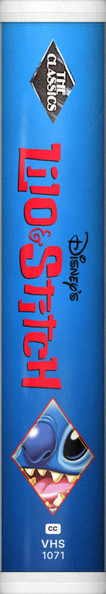
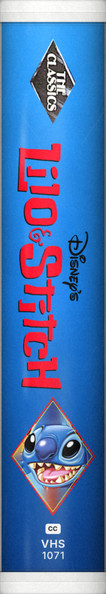
More of the face on Lilo & Stitch, The Jungle Book and Ratatouille
Claude-Session: https://claude.ai/code/session_01RnhGoJJhH4zFPKQhpQ9ghr

Changed region(s): [[0.1132, 0.6667, 0.8774, 0.8788]]

diff --git a/spinegen/tapes.py b/spinegen/tapes.py
@@ -1735,7 +1735,9 @@ def vlogo(id, color, length, path=None):
 # id -> (fx, fy, zoom): the point of the picture (fractions) put at the diamond's centre, and the scale
 # relative to filling the frame (under 1 shows more of the picture; any gap is filled with a blurred copy).
 FACE_FIT = {
-    'ratatouille-2007': (.42, .50, .72),
+    'ratatouille-2007': (.52, .44, .54),
+    'lilo-stitch-2002': (.46, .50, .54),
+    'the-jungle-book-1967': (.50, .52, .54),
     'chicken-little-2005': (.56, .58, .66),
     'lady-and-the-tramp-1955': (.62, .46, .70),
     'the-lion-king-1994': (.56, .42, .80),

diff --git a/CLAUDE.md b/CLAUDE.md
@@ -123,7 +123,7 @@ Ian's rule (16 November 2026): **every Disney or Pixar film gets the white plast
 2. **Head emblem**: the thin black diamond, `logos/classics-diamond.png`. This is Ian's own low-res photo crop of the emblem, squared up and placed as a picture. It is never redrawn in code; if the file is missing a plain black diamond with "VHS 2026" is drawn instead. A sharper photo saved over the file is picked up on the next render.
 3. **Studio logo reading down** the spine, in one ink, from the film's `logos/` file (left out when the title logo already carries the studio's name, as on Zootopia 2).
 4. **Title in the film's own logo lettering**, reading down. Never a generic typeset title if the real logo can be had (see "Getting the title" below).
-5. **One character's face in a red diamond** near the foot. A true diamond, clearly taller than wide, not a square on its corner, and a single face, not a group. **Ian's own face pictures (26 Nov 2026)** are in `spinegen/faces/<id>.png` (47 of the clamshells); when a film has one, `disney()` uses it instead of the spec's `face` poster crop (`face_crop()` in `tapes.py` fills the diamond from the picture's centre, letting a wide or tall one squeeze by up to 20% so less is cut away). Where the face is off-centre or too big for the diamond, `FACE_FIT` in `tapes.py` gives a picture its own framing (`id -> (fx, fy, zoom)`: the point put at the diamond's centre and the scale, under 1 to show more; a gap is filled by carrying the picture's edge colours outwards, softened). Set for Ratatouille, Chicken Little, Lady and the Tramp, The Lion King, Toy Story 2, The Rescuers, The Wild, Sleeping Beauty, Pinocchio, The Rescuers Down Under, Zootopia, Bambi, Fantasia 2000, The Sword in the Stone, Fantasia, Brave, Brother Bear, Big Hero 6 and Inside Out (Ian, 26 Nov 2026). Save a new one there and re-render the film to change its face.
+5. **One character's face in a red diamond** near the foot. A true diamond, clearly taller than wide, not a square on its corner, and a single face, not a group. **Ian's own face pictures (26 Nov 2026)** are in `spinegen/faces/<id>.png` (47 of the clamshells); when a film has one, `disney()` uses it instead of the spec's `face` poster crop (`face_crop()` in `tapes.py` fills the diamond from the picture's centre, letting a wide or tall one squeeze by up to 20% so less is cut away). Where the face is off-centre or too big for the diamond, `FACE_FIT` in `tapes.py` gives a picture its own framing (`id -> (fx, fy, zoom)`: the point put at the diamond's centre and the scale, under 1 to show more; a gap is filled by carrying the picture's edge colours outwards, softened). Set for Ratatouille, Chicken Little, Lady and the Tramp, The Lion King, Toy Story 2, The Rescuers, The Wild, Sleeping Beauty, Pinocchio, The Rescuers Down Under, Zootopia, Bambi, Fantasia 2000, The Sword in the Stone, Fantasia, Brave, Brother Bear, Big Hero 6, Inside Out, Lilo & Stitch and The Jungle Book (1967) (Ian, 26 Nov 2026). Save a new one there and re-render the film to change its face.
 6. **CC box, "VHS", catalogue number** at the foot, then the bottom white cap.
 
 Artwork or a colour taken from the poster runs the full length behind all of it. No thumb notch, no stickers, no card wear.
